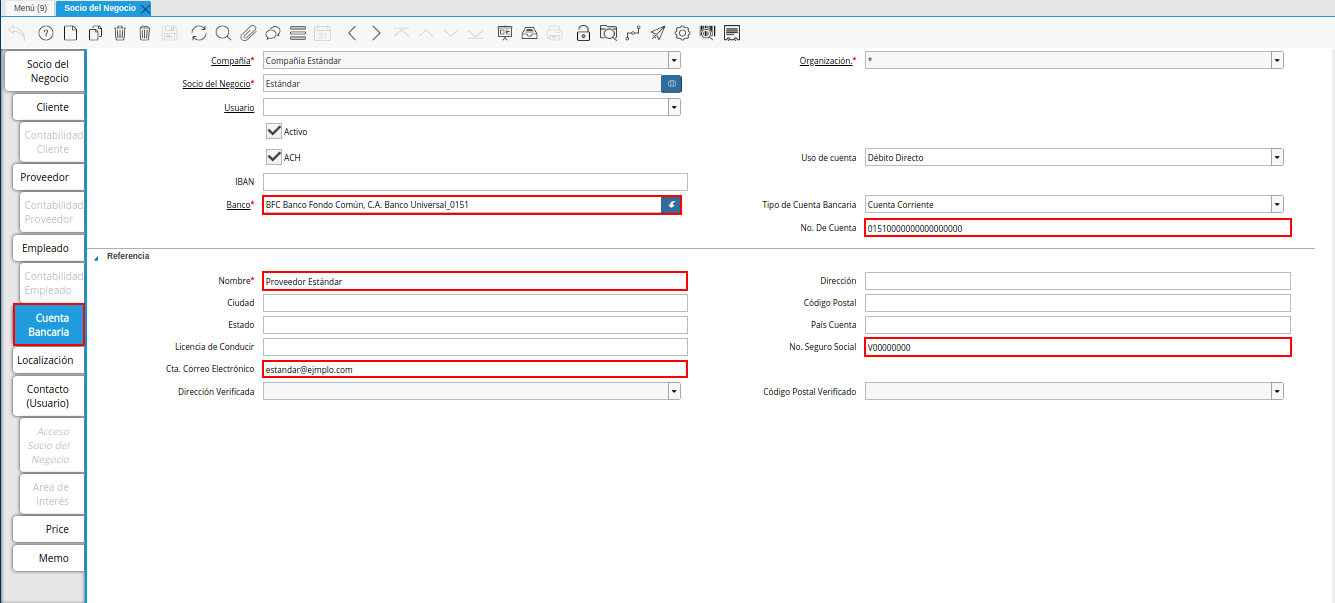
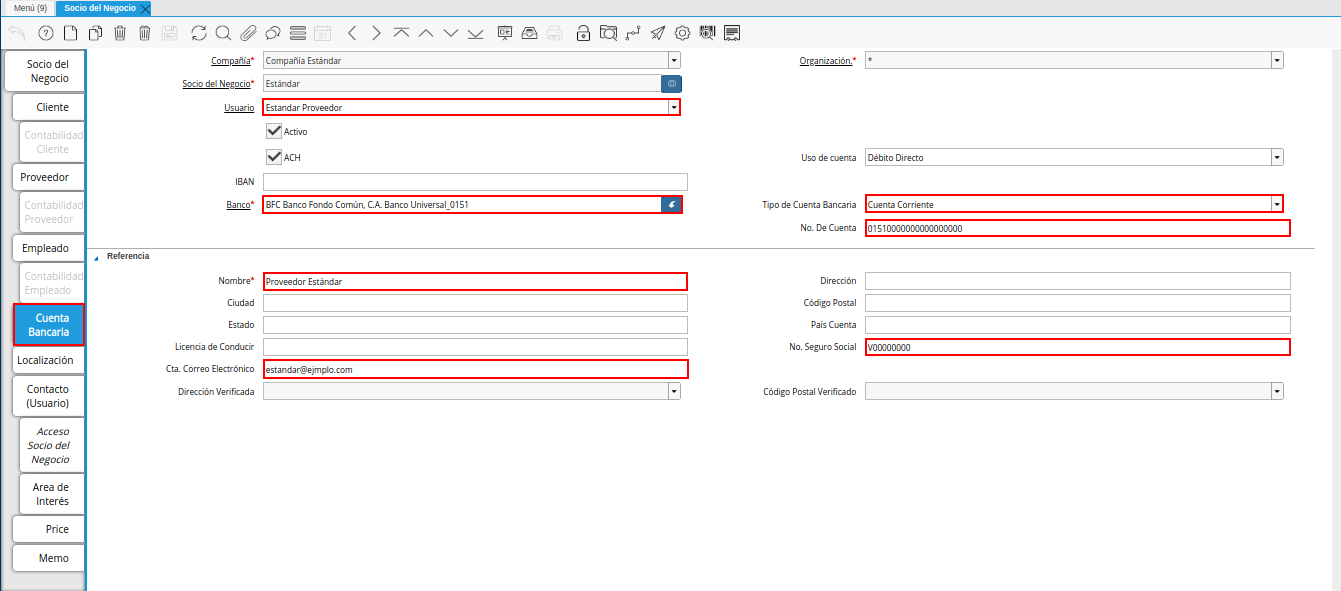
txt del bod

Changed region(s): [[0.0, 0.0, 1.0, 0.9746], [0.5835, 0.0609, 0.9828, 0.1218]]

diff --git a/src/lve/procedures/treasury-management/upload-bank-statement-to-bank/bod.rst b/src/lve/procedures/treasury-management/upload-bank-statement-to-bank/bod.rst
@@ -1,0 +1,144 @@
+.. _ERPyA: http://erpya.com
+
+.. _documento/banco-bod:
+
+**Banco Occidental de Descuento**
+=================================
+
+Para la exportación de los archivos desde ADempiere al banco occidental de descuento, `ERPyA`_ soporta el siguiente formato facilitado por el banco, que pueden ser descargado. El documento :download:`Formato Archivo Ordenes de Pago <Formato_Pagos_BOD.xlsx>`, explica el formato que sirve de ayuda para la construcción el archivo a cargar.
+
+Adicional a ello, se puede visualizar dicho documento de la siguiente manera, luego de descargarlo.
+
++---+-------------------------------------+--------------+----------+------------+---------------+----------------------------------------------------------------------------------------------------------------+---------------------------+
+|   | **Nombre del Campo**                | **Longitud** | **Tipo** | **Decima** | **Requerido** | **Descripción/Valor**                                                                                          | **Ejemplo**               |
++===+=====================================+==============+==========+============+===============+================================================================================================================+===========================+
+| **Registro de encabezado o header TIPO = 01. Longitud 250**                                                                                                                                                                                 |
++---+-------------------------------------+--------------+----------+------------+---------------+----------------------------------------------------------------------------------------------------------------+---------------------------+
+| 1 |TIPO DE REGISTRO                     |      2       |     N    |    N/A     |     SI        |Identificación el encabezado del lote                                                                           |      01                   |
++---+-------------------------------------+--------------+----------+------------+---------------+----------------------------------------------------------------------------------------------------------------+---------------------------+
+| 2 |DESCRIPCION LOTE                     |      20      |     A    |    N/A     |     SI        |Debe decir: "Proveedores" o "Nomina"                                                                            |PROVEEDORES                |
++---+-------------------------------------+--------------+----------+------------+---------------+----------------------------------------------------------------------------------------------------------------+---------------------------+
+| 3 |TIPO PERSONA (Ordenante)             |      1       |     A    |    N/A     |     SI        |Calificador (V-Venezolano,E-Extranjero ó P-Pasaporte) Para el caso de RIF: Calificador (J-Juridico, G-Gobierno) |V000000000                 |
++---+-------------------------------------+--------------+----------+------------+---------------+----------------------------------------------------------------------------------------------------------------+                           +
+| 4 |NUMERO RIF/CI (Ordenante)            |      9       |     N    |    N/A     |     SI        |Número RIF/CI                                                                                                   |                           |
++---+-------------------------------------+--------------+----------+------------+---------------+----------------------------------------------------------------------------------------------------------------+---------------------------+
+| 5 |NÚMERO DE CONTRATO                   |      17      |     N    |    N/A     |     SI        |Número de la negociación                                                                                        |00000000000000116          |
++---+-------------------------------------+--------------+----------+------------+---------------+----------------------------------------------------------------------------------------------------------------+---------------------------+
+| 6 |NÚMERO DE LOTE / REFERENCIA DEBITO   |      9       |     N    |    N/A     |     SI        |Número del Lote. Referencia del débito. Será utilizada en el esatdo de cuenta (modaldiad 1:n)                   |001000038                  |
++---+-------------------------------------+--------------+----------+------------+---------------+----------------------------------------------------------------------------------------------------------------+---------------------------+
+| 7 |FECHA DE ENVÍO                       |      8       |     N    |    N/A     |     SI        |Fecha de envío del lote. Debe estar en formato yyyymmdd                                                         |20201012                   |
++---+-------------------------------------+--------------+----------+------------+---------------+----------------------------------------------------------------------------------------------------------------+---------------------------+
+| 8 |CANTIDAD DE OPERACIONES              |      6       |     N    |    N/A     |     SI        |Cantidad de pagos en el lote (regsitros de detalle)                                                             |000004                     |
++---+-------------------------------------+--------------+----------+------------+---------------+----------------------------------------------------------------------------------------------------------------+---------------------------+
+| 9 |MONTO TOTAL                          |      17      |     N    |     2      |     SI        |Monto total del lote de pagos (Incluye los decimales sin separador). Monto en el ejemplo: 18.500.000,00         |00000001850000000          |
++---+-------------------------------------+--------------+----------+------------+---------------+----------------------------------------------------------------------------------------------------------------+---------------------------+
+| 10|MONEDA                               |      3       |     N    |    N/A     |     SI        |Moneda actual disponible Bs.                                                                                    |VES                        |
++---+-------------------------------------+--------------+----------+------------+---------------+----------------------------------------------------------------------------------------------------------------+---------------------------+
+|   |FILLER                               |     158      |     N    |    N/A     |     SI        |Uso futuro                                                                                                      |                           |
++---+-------------------------------------+--------------+----------+------------+---------------+----------------------------------------------------------------------------------------------------------------+---------------------------+
+| **Registro de Detalle por cada pago en lote TIPO=02. Longitud 250**                                                                                                                                                                         |
++---+-------------------------------------+--------------+----------+------------+---------------+----------------------------------------------------------------------------------------------------------------+---------------------------+
+| 1 |TIPO REGISTRO                        |      2       |     A    |    N/A     |     SI        |Identificación de detalle. Pueden haber tantos registros de detalle como pagos se requieran en el lote.         |      02                   |
++---+-------------------------------------+--------------+----------+------------+---------------+----------------------------------------------------------------------------------------------------------------+---------------------------+
+| 2 |TIPO PERSONA (Beneficiario)          |      1       |     A    |    N/A     |     SI        |Calificador (V-Venezolano,E-Extranjero ó P-Pasaporte)  Para el caso de RIF: Calificador (J-Juridico, G-Gobierno)|V000000000, G200003030,    |
++---+-------------------------------------+--------------+----------+------------+---------------+----------------------------------------------------------------------------------------------------------------+                           +
+| 3 |NUMERO RIF/CI (Beneficiario)         |      9       |     N    |    N/A     |     SI        |Número RIF/CI                                                                                                   |J297599070, J002443731     |
++---+-------------------------------------+--------------+----------+------------+---------------+----------------------------------------------------------------------------------------------------------------+---------------------------+
+| 4 |NOMBRE DEL BENEFICIARIO              |      60      |     A    |    N/A     |     SI        |Nombre del Beneficiario del crédito. Obligatorio cuando el beneficiario no está registrado o si la modalidad de |Proveedor Estndar, Servicio|
+|   |                                     |              |          |            |               |pago es CHQ o EFE                                                                                               |Nacional Integrado de      |
+|   |                                     |              |          |            |               |                                                                                                                |Administracin (SENIAT),    |
+|   |                                     |              |          |            |               |                                                                                                                |Bolivariana de Puertos     |
+|   |                                     |              |          |            |               |                                                                                                                |( Bolipuertos)  S A,       |
+|   |                                     |              |          |            |               |                                                                                                                |Dhl Express Aduanas        |
+|   |                                     |              |          |            |               |                                                                                                                |Venezuela CA               |
++---+-------------------------------------+--------------+----------+------------+---------------+----------------------------------------------------------------------------------------------------------------+---------------------------+
+| 5 |REFERENCIA DE LA OPERACIÓN           |      9       |     N    |    N/A     |     NO        |Numero de Referencia del Crédito a ser utilizada en el estado de cuenta (modalidad 1:1)                         |000000000, 000000001,      |
+|   |                                     |              |          |            |               |                                                                                                                |000000002, 000000003       |
++---+-------------------------------------+--------------+----------+------------+---------------+----------------------------------------------------------------------------------------------------------------+---------------------------+
+| 6 |DESCRIPCION OPERACIÓN                |      30      |     A    |    N/A     |     NO        |Descripción de la Operación                                                                                     |10001621000163             |
+|   |                                     |              |          |            |               |                                                                                                                |1000166                    |
+|   |                                     |              |          |            |               |                                                                                                                |1000165                    |
+|   |                                     |              |          |            |               |                                                                                                                |1000164                    |
++---+-------------------------------------+--------------+----------+------------+---------------+----------------------------------------------------------------------------------------------------------------+---------------------------+
+| 7 |MODALIDAD DE PAGO                    |      3       |     A    |    N/A     |     SI        |Valores: CTA Cuenta mismo bancos - BAN cuenta otro bancos - CHQ Cheque de Gerencia - EFE Efectivo - TAR  TC     |CTA, BAN, BAN, BAN         |
+|   |                                     |              |          |            |               |Visa / Master Otros bancos - AME TC American Express-  V/M TC Visa / Master mismo Banco,  si el beneficiario no |                           |
+|   |                                     |              |          |            |               |está registrado                                                                                                 |                           |
++---+-------------------------------------+--------------+----------+------------+---------------+----------------------------------------------------------------------------------------------------------------+---------------------------+
+| 8 |NUMERO DE CUENTA ó TARJETA DE CRÉDITO|      20      |     N    |    N/A     |     SI        |Numero de la cuenta a acreditar. Obligatorio para Abono en cuenta mismo banco, otros bancos y tarjetas de       |01160000000000000000,      |
+|   |                                     |              |          |            |               |crédito, si el beneficiario no está registrado                                                                  |01340000000000000000,      |
+|   |                                     |              |          |            |               |                                                                                                                |01340000000000000000,      |
+|   |                                     |              |          |            |               |                                                                                                                |01740000000000000000       |
++---+-------------------------------------+--------------+----------+------------+---------------+----------------------------------------------------------------------------------------------------------------+---------------------------+
+| 9 |CODIGO DE BANCO                      |      4       |     N    |    N/A     |     SI        |Código del Banco.                                                                                               |0116, 0134, 0134 0174      |
++---+-------------------------------------+--------------+----------+------------+---------------+----------------------------------------------------------------------------------------------------------------+---------------------------+
+| 10|FECHA VALOR                          |      8       |     N    |    N/A     |     SI        |Fecha de pago. Debe estar en formato yyyymmdd                                                                   |20201012                   |
++---+-------------------------------------+--------------+----------+------------+---------------+----------------------------------------------------------------------------------------------------------------+---------------------------+
+| 11|MONTO                                |      15      |     N    |     2      |     SI        |Monto del pago. Incluye los decimales. Monto expresado en ejemplo: Bs. 14.000,75                                |000000400000000,           |
+|   |                                     |              |          |            |               |                                                                                                                |000000600000000,           |
+|   |                                     |              |          |            |               |                                                                                                                |000000500000000,           |
+|   |                                     |              |          |            |               |                                                                                                                |000000350000000            |
++---+-------------------------------------+--------------+----------+------------+---------------+----------------------------------------------------------------------------------------------------------------+---------------------------+
+| 12|MONEDA                               |      3       |     N    |    N/A     |     SI        |Moneda actual disponible Bs.                                                                                    |VES                        |
++---+-------------------------------------+--------------+----------+------------+---------------+----------------------------------------------------------------------------------------------------------------+---------------------------+
+| 13|IMPUESTO RETENIDO                    |      15      |     N    |     2      |     NO        |Monto del impuesto retenido en el documento asociado al pago Bs. 1.680,09                                       |000000000000000            |
++---+-------------------------------------+--------------+----------+------------+---------------+----------------------------------------------------------------------------------------------------------------+---------------------------+
+| 14|EMAIL                                |      40      |     A    |    N/A     |     NO        |Dirección email del beneficiario                                                                                |estandar@ejmplo.com,       |
+|   |                                     |              |          |            |               |                                                                                                                |seniat@ejemplo.com,        |
+|   |                                     |              |          |            |               |                                                                                                                |bolipuertos@ejemplo.com,   |
+|   |                                     |              |          |            |               |                                                                                                                |dhl@ejemplo.com            |
++---+-------------------------------------+--------------+----------+------------+---------------+----------------------------------------------------------------------------------------------------------------+---------------------------+
+| 15|CELULAR                              |      11      |     N    |    N/A     |     NO        |Teléfono celular para envío de SMS                                                                              |02550000000                |
++---+-------------------------------------+--------------+----------+------------+---------------+----------------------------------------------------------------------------------------------------------------+---------------------------+
+|   |FILLER                               |      20      |          |            |     SI        |Uso futuro                                                                                                      |                           |
++---+-------------------------------------+--------------+----------+------------+---------------+----------------------------------------------------------------------------------------------------------------+---------------------------+
+| **Documentos asociados al pago TIPO=03 (Opcional)**                                                                                                                                                                                         |
++---+-------------------------------------+--------------+----------+------------+---------------+----------------------------------------------------------------------------------------------------------------+---------------------------+
+| 1 |IDENTIFICADOR REGISTRO               |      2       |     A    |    N/A     |     NO        |Identificación de documentos. Puede haber mas de un (1) documento por cada pago                                 |      03                   |
++---+-------------------------------------+--------------+----------+------------+---------------+----------------------------------------------------------------------------------------------------------------+---------------------------+
+| 2 |NÚMERO DE FACTURA O DOCUMENTO        |      20      |     A    |    N/A     |     NO        |Número o referencia del documento                                                                               |1000162, 1000163, 1000166, |
+|   |                                     |              |          |            |               |                                                                                                                |1000165, 1000164           |
++---+-------------------------------------+--------------+----------+------------+---------------+----------------------------------------------------------------------------------------------------------------+---------------------------+
+| 3 |MONTO FACTURA                        |      15      |     A    |     2      |     NO        |Monto original del documento                                                                                    |000000150000000,           |
+|   |                                     |              |          |            |               |                                                                                                                |000000250000000,           |
+|   |                                     |              |          |            |               |                                                                                                                |000000600000000,           |
+|   |                                     |              |          |            |               |                                                                                                                |000000500000000,           |
+|   |                                     |              |          |            |               |                                                                                                                |000000350000000            |
++---+-------------------------------------+--------------+----------+------------+---------------+----------------------------------------------------------------------------------------------------------------+---------------------------+
+| 4 |MONEDA                               |      3       |     N    |    N/A     |     NO        |Moneda actual disponible Bs.                                                                                    |VES                        |
++---+-------------------------------------+--------------+----------+------------+---------------+----------------------------------------------------------------------------------------------------------------+---------------------------+
+| 5 |FECHA FACTURA                        |      8       |     N    |    N/A     |     NO        |Fecha del documento / factura.   yyyy/mm/dd                                                                     |2020/10/12                 |
++---+-------------------------------------+--------------+----------+------------+---------------+----------------------------------------------------------------------------------------------------------------+---------------------------+
+| 6 |IMPUESTO RETENIDO                    |      15      |     N    |     2      |     NO        |Monto del impuesto retebido en la factura                                                                       |000000000000000            |
++---+-------------------------------------+--------------+----------+------------+---------------+----------------------------------------------------------------------------------------------------------------+---------------------------+
+| 7 |FILLER                               |      187     |          |            |     SI        |Uso futuro                                                                                                      |                           |
++---+-------------------------------------+--------------+----------+------------+---------------+----------------------------------------------------------------------------------------------------------------+---------------------------+
+
+**Archivos para Pagos o Cobros**
+--------------------------------
+
+Al ejecutar el proceso de selección de pago de las siguientes facturas en ADempiere: 
+
+- Factura "**1000162**" al socio del negocio "**Estándar**" por monto total de "**1.500.000,00**".
+- Factura "**1000163**" al socio del negocio "**Estándar**" por monto total de "**2.500.000,00**". 
+- Factura "**1000164**" al socio del negocio "**Dhl Express Aduanas Venezuela C.A.**" por monto total de "**3.500.000,00**". 
+- Factura "**1000165**" al socio del negocio "**Bolivariana de Puertos  ( Bolipuertos)  S A**" por monto total de "**5.000.000,00**". 
+- Factura "**1000166**" al socio del negocio "**Servicio Nacional Integrado de Administración (SENIAT)**" por monto total de "**6.000.000,00**". 
+
+Se obtiene como resultado del proceso "**Imprimir /Exportar**", un documento en formato "**.txt**" con los detalles de los pagos a ser realizados desde el banco bod a terceros en el mismo banco, así como también a terceros en otros bancos, el mismo se puede descargar en el enlace :download:`Archivo de Pago de Proveedores del Banco Occidental de Descuento <Banco_Occidental_de_Descuento_BU_CA_1000038.txt>` y visualizar de la siguiente manera:
+
+::
+
+    01PROVEEDORES         J000000000000000000000001160010000382020101200000400000001850000000VES                                                                                                                                                              
+    02V000000000Proveedor Estndar                                           00000000010001621000163                BAN01510000000000000000015120201012000000400000000VES000000000000000estandar@ejmplo.com                     02550000000                    
+    031000162             000000150000000VES2020/10/12000000000000000                                                                                                                                                                                           
+    031000163             000000250000000VES2020/10/12000000000000000                                                                                                                                                                                           
+    02G200003030Servicio Nacional Integrado de Administracin (SENIAT)       0000000011000166                       BAN01340000000000000000013420201012000000600000000VES000000000000000seniat@ejemplo.com                                                     
+    031000166             000000600000000VES2020/10/12000000000000000                                                                                                                                                                                           
+    02J297599070Bolivariana de Puertos  ( Bolipuertos)  S A                 0000000021000165                       BAN01340000000000000000013420201012000000500000000VES000000000000000bolipuertos@ejemplo.com                                                
+    031000165             000000500000000VES2020/10/12000000000000000                                                                                                                                                                                           
+    02J002443731Dhl Express Aduanas Venezuela CA                            0000000031000164                       BAN01740000000000000000017420201012000000350000000VES000000000000000dhl@ejemplo.com                                                        
+    031000164             000000350000000VES2020/10/12000000000000000                                                                                                                                                                                           
+
+**Descripción del Archivo**
+
+La descripción del archivo anteriormente generado por el pago, se encuentra explicada en el documento :download:`Formato Archivo Ordenes de Pago <Formato_Pagos_BOD.xlsx>`. De igual manera, se encuentra explicada en la tabla que contiene el presente documento, al inicio del mismo.

diff --git a/src/lve/procedures/treasury-management/upload-bank-statement-to-bank/batch-payments.rst b/src/lve/procedures/treasury-management/upload-bank-statement-to-bank/batch-payments.rst
@@ -1,5 +1,6 @@
 .. _ERPyA: http://erpya.com
 .. |pestaña cuenta bancaria de la ventana socio del negocio| image:: resources/bank-account-tab-of-the-business-partner-window.png
+.. |pestaña contacto usuario| image:: resources/user-contact-tab.png
 .. |ventana selección de pagos| image:: resources/payment-selection-window.png
 .. |pestaña línea selección de pagos| image:: resources/payment-selection-line-tab.png
 .. |ventana imprimir exportar pagos| image:: resources/print-window-export-payments.png
@@ -18,15 +19,25 @@ Este proceso permite que se realice una gran cantidad de pagos a diferentes soci
 
 Principalmente, el servicio de ADempiere debe contar con la siguiente configuración por socio del negocio, en la pestaña "**Cuenta Bancaria**" del registro del mismo. Esta configuración se debe cumplir de manera "**Obligatoria**" para los socios que cumplen los roles de proveedor y empleado.
 
+Suponiendo que se tiene un socio del negocio llamado "**Estándar**". Se debe realizar el registro del mismo como lo indica el procedimiento explicado en los documentos :ref:`documento/socio-proveedor` y :ref:`documento/socio-empleado`, según sea el caso del socio. 
+
+Es necesario que todos los socios del negocio cuenten con el registro de los siguientes campos que contiene la pestaña "**Cuenta Bancaria**", ya que con dicha información es creado el archivo "**.txt**" de cada banco soportado por ADempiere:
+
+- "**Usuario**": El usuario de acceso en ADempiere definido para el socio del negocio que se encuentra configurando. La selección de este campo permite que ADempiere tome el número de teléfono ingresado en el campo "**Teléfono**", el usuario definido en el campo "**Código**" y el nombre ingresado en el campo "**Nombre**", del registro de la pestaña "**Contacto (Usuario)**" del socio del negocio, cuando sea requerido en el construcción del archivo "**.txt**". Un ejemplo de este campo puede ser "**02550000000**", "**EstandarUsuario**" y "**Estandar Proveedor**".
+
+    |pestaña contacto usuario|
+
+    Imagen 1. Configuración de Contacto Usuario de la Ventana Socio del Negocio
+
 - "**Banco**": Banco donde el socio del negocio posee una cuenta bancaria. Este puede ser "**BFC Banco Fondo Común, C.A. Banco Universal**".
 - "**No. De Cuenta**": Número de cuenta bancaria del socio del negocio en el banco indicado anteriormente. Un ejemplo de este campo puede ser "**01510000000000000000**".
 - "**Nombre**": Nombre del socio del negocio titular de la cuenta bancaria indicada anteriormente. Para este ejemplo se tiene como nombre "**Proveedor Estándar**".
-- "**No. Seguro Social**": Número de cédula de identidad o registro de información fiscal (RIF), del socio del negocio titular de la cuenta bancaria. Un ejemplo de este campo puede ser "**V00000000**" o "**J000000000**".
+- "**No. Seguro Social**": Número de cédula de identidad o registro de información fiscal (RIF), del socio del negocio titular de la cuenta bancaria. Un ejemplo de este campo puede ser "**V00000000**".
 - "**Cta. Correo Electrónico**": La dirección de correo electrónico del titular de la cuenta bancaria indicada anteriormente.
 
-    |pestaña cuenta bancaria de la ventana socio del negocio|
+|pestaña cuenta bancaria de la ventana socio del negocio|
 
-    Imagen 1. Configuración Bancaria de la Ventana Socio del Negocio
+Imagen 2. Configuración Bancaria de la Ventana Socio del Negocio
 
 .. note::
 
@@ -41,19 +52,19 @@ Continuando con el ejemplo expuesto anteriormente, se crea el documento de selec
 
     |ventana selección de pagos|
 
-    Imagen 2. Ventana Selección de Pagos
+    Imagen 3. Ventana Selección de Pagos
 
 Documento en el cual se tiene asociada la factura por pagar número "**1000150**", con monto de "**7.500.000,00**". Factura en la cual se encuentra involucrado el socio del negocio "**Estándar**" como socio proveedor.
 
     |pestaña línea selección de pagos|
 
-    Imagen 3. Pestaña Línea Selección de Pagos
+    Imagen 4. Pestaña Línea Selección de Pagos
 
 Al momento de generar el archivo en formato "**.txt**", ADempiere toma de la pestaña "**Cuenta Bancaria**" los datos de los socios del negocio involucrados en el documento seleccionado en el campo "**Selección de Pago**" de la ventana "**Imprimir/Exportar Pagos**".
 
     |ventana imprimir exportar pagos|
 
-    Imagen 4. Ventana Imprimir/Exportar Pagos
+    Imagen 5. Ventana Imprimir/Exportar Pagos
 
     .. note::
 
@@ -62,7 +73,9 @@ Al momento de generar el archivo en formato "**.txt**", ADempiere toma de la pes
 **Resultado Obtenido**
 **********************
 
-Finalmente, se puede visualizar el archivo descargado automáticamente desde ADempiere para corroborar la información. Un ejemplo del archivo generado en formato "**.txt**" puede ser el siguiente:
+Finalmente, se puede visualizar el archivo descargado automáticamente desde ADempiere para corroborar la información.
+
+Un ejemplo del archivo generado en formato "**.txt**", sin seleccionar el usuario en la pestaña "**Cuenta Bancaria**", puede ser el siguiente:
 
 ::
 
@@ -71,6 +84,17 @@ Finalmente, se puede visualizar el archivo descargado automáticamente desde ADe
     021000035                       J000000000       Compaa Estndar                     000000750000000VES 0134000000000000000               BANESCO    20201008
     0300000000                      000000750000000VES01510000000000000000          0151          V00000000        Proveedor Estndar                                                     estandar@ejmplo.com                                                                                                                                                                                      425
     06000000000000001000000000000001000000750000000
+
+Un ejemplo del archivo generado en formato "**.txt**", seleccionando el usuario en la pestaña "**Cuenta Bancaria**", puede ser el siguiente:
+
+::
+
+    HDRBANESCO        ED  95BPAYMULP
+    01SCV                                9  1000039                            20201012000000
+    021000039                       J000000000       Compaa Estndar                     000000464000000VES 01340000000000000000              BANESCO    20201012
+    0300000000                      000000464000000VES01510000000000000000          0151          V00000000        Proveedor Estndar                                                     estandar@ejmplo.com                                                   02550000000              EstandarUsuario  Estandar Proveedor                                                                       425
+    06000000000000001000000000000001000000464000000
+
 
 El archivo en formato "**.txt**" generado por ADempiere, debe ser cargado al banco desde el cual requiere que sean ejecutadas las transferencias bancarias.
 
@@ -83,3 +107,4 @@ El archivo en formato "**.txt**" generado por ADempiere, debe ser cargado al ban
     banesco
     banplus
     bfc
+    bod
